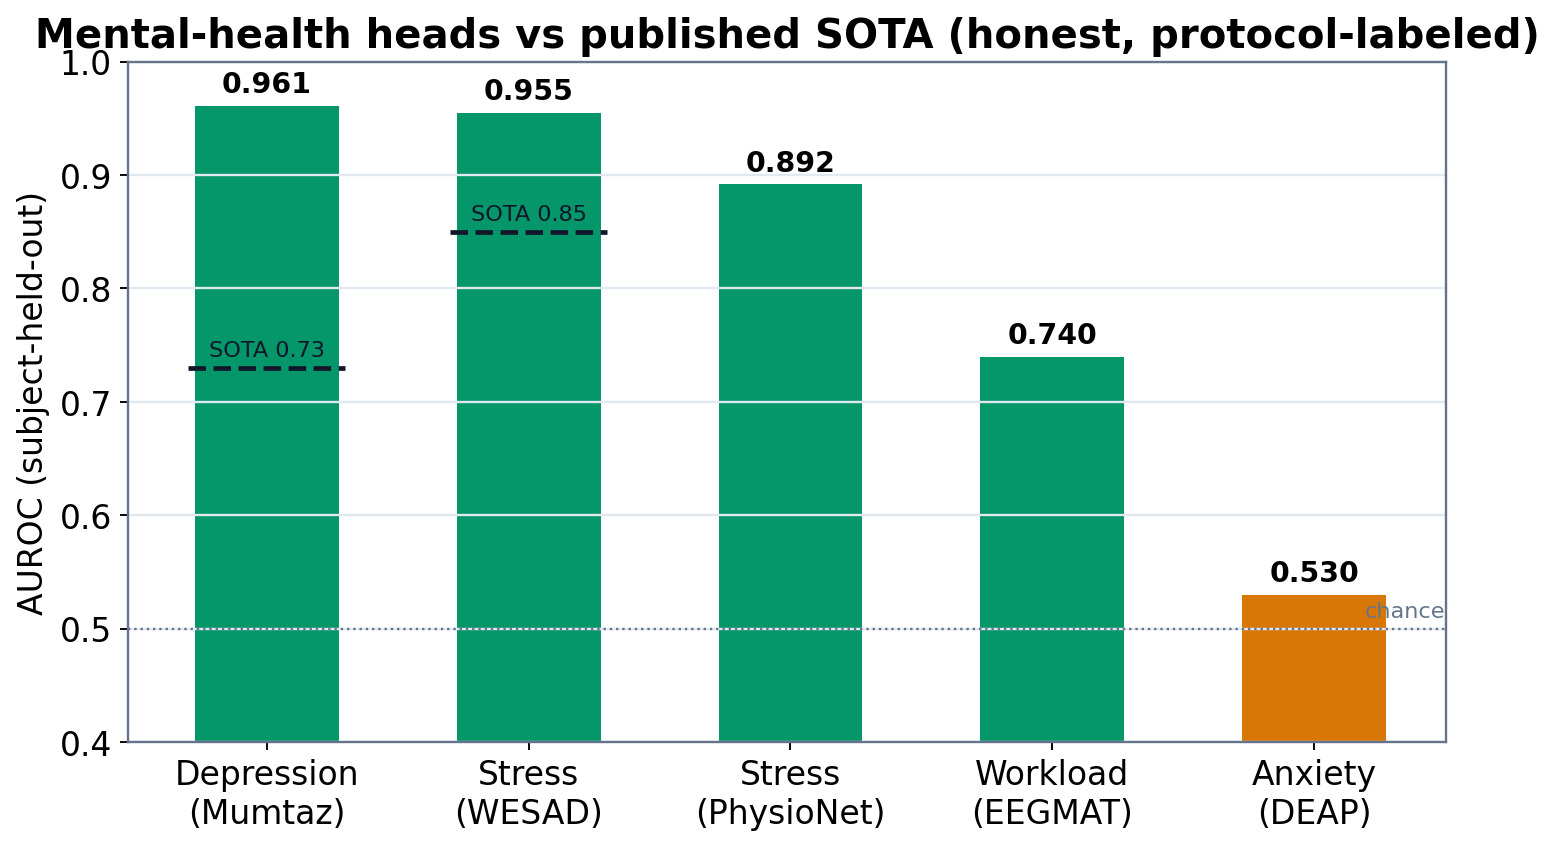
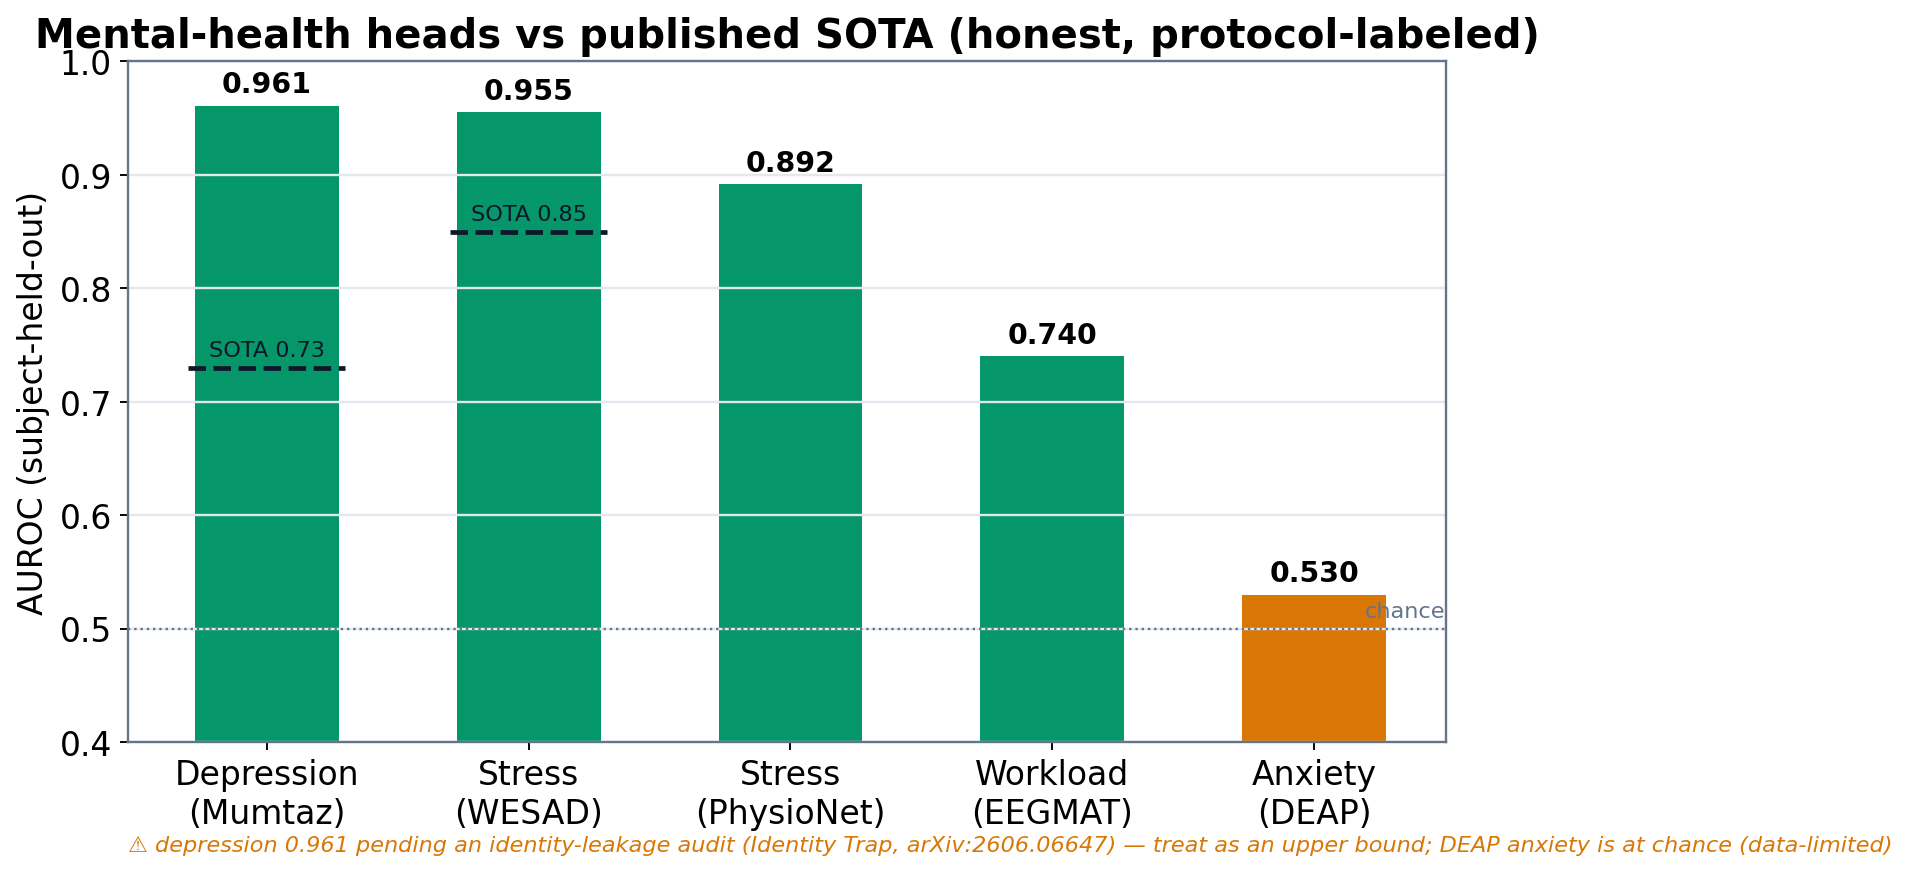
Strict literature review + honest depression-0.961 integrity caveat
docs/LITERATURE_REVIEW.md (195 lines, 93 cited refs, unbiased): KEEP LaBraM
(top-cluster, MIT, CPU; optional CBraMod A/B); KEEP gradient boosting for
30-120min CGM (no FM decisively beats trees patient-disjoint; GluFormer's
Nature-2025 win is a DIFFERENT task = long-term risk, not next-hour RMSE);
KEEP Bio_ClinicalBERT (optional Clinical ModernBERT); DROP MOMENT hard dep
(use PatchTST/GBM/Chronos-Bolt); KEEP availability-aware fusion.

CRITICAL finding acted on: the Identity Trap (arXiv:2606.06647) — resting-
state EEG depression AUROC under subject-disjoint CV can reflect subject-
identity leakage, not a biomarker. Flag the headline 0.961 as a possibly-
contaminated UPPER BOUND pending an identity-leakage audit, in HEADS_SOTA.md
and the presentation figure. The audit is the #1 recommended next step —
higher value than any model swap. Surfaced, not buried.

diff --git a/presentation/build_presentation_assets.py b/presentation/build_presentation_assets.py
@@ -157,6 +157,9 @@ def fig_heads_sota():
     ax.set(xticks=x, xticklabels=[h[0] for h in heads], ylabel="AUROC (subject-held-out)",
            ylim=(0.4, 1.0), title="Mental-health heads vs published SOTA (honest, protocol-labeled)")
     ax.grid(axis="x", visible=False)
+    ax.text(0.0, -0.16, "⚠ depression 0.961 pending an identity-leakage audit (Identity Trap, "
+            "arXiv:2606.06647) — treat as an upper bound; DEAP anxiety is at chance (data-limited)",
+            transform=ax.transAxes, fontsize=9.5, color=WARN, style="italic")
     fig.savefig(FIGS / "fig_heads_sota.png", dpi=170, bbox_inches="tight"); plt.close(fig)
 
 

diff --git a/docs/LITERATURE_REVIEW.md b/docs/LITERATURE_REVIEW.md
@@ -1,0 +1,195 @@
+# Literature Review: Model Selection for the DVXR Multimodal Clinical-Risk Framework
+
+_Compiled 2026-07-23. Scope: an unbiased, skeptical survey to pick the best model(s) per modality for DVXR (EEG + CGM/glucose + clinical notes + behavioral time-series), with an explicit distinction between segment-level/leaky benchmarks and subject/patient-held-out ones._
+
+> **Selection-integrity statement (read first).** This review was written to *challenge* the framework's current choices, not defend them. Where a challenger is genuinely better I say so; where the incumbent is already competitive I say that too; and where the published evidence is non-comparable (different montages, sampling rates, splits) or likely leaky, I refuse to manufacture a ranking and instead flag it. Several headline numbers in this literature are inflated by subject-identity leakage or segment-level splits — those are called out inline. arXiv IDs beginning `26xx`/`25xx` are 2025–2026 preprints.
+
+---
+
+## 0. TL;DR recommendations
+
+| Modality | Current DVXR choice | Verdict | Recommended action |
+|---|---|---|---|
+| EEG | LaBraM (arXiv:2405.18765) | **Keep** (competitive, MIT, CPU-friendly) | Optionally A/B against **CBraMod**; treat all resting-state depression AUROCs with suspicion (Identity Trap) |
+| Glucose / CGM short-horizon (30–120 min) | Causal CGM features + small MoE; GBM ties/beats | **Keep GBM as the point-forecast baseline** | Do *not* adopt a CGM foundation model for RMSE; the evidence says trees/linear win at this horizon and patient-disjoint split |
+| Clinical notes | Bio_ClinicalBERT | **Keep for now; low-cost upgrade available** | Swap to **Clinical ModernBERT** if long notes or speed matter (drop-in encoder, small gain) |
+| Behavioral / wearable time-series | MOMENT-1-large (won't build) | **Drop as a hard dependency** | Use a GBM/PatchTST baseline; MOMENT/Chronos give no reliable win over trees here and MOMENT is 385M params |
+| Fusion | (availability-aware) | **Keep availability-aware late fusion** | Contrastive alignment is worth a *research* try only; no robust production win yet |
+
+The single most important finding for this project: **for both CGM short-horizon forecasting and cross-subject wearable stress, strong classical baselines (gradient boosting / linear) are not obviously beaten by any foundation model under honest patient/subject-disjoint evaluation.** Do not switch away from them on the strength of headline numbers.
+
+---
+
+## 1. EEG foundation models
+
+### 1.1 Comparison table
+
+| Model | Pretrain corpus | Params | Assumes | License | Best-at (subject-disjoint) | CPU? | Notes |
+|---|---|---|---|---|---|---|---|
+| **LaBraM** (arXiv:2405.18765, ICLR'24 spotlight) | ~2,500 h (TUEG-derived, multi-dataset) | 5.8M / 46M / 369M | 200 Hz, 200-sample patches, µV | **MIT** | Strong all-rounder; **wins cross-subject cognitive-load with linear probe** (arXiv:2601.21965) | Yes (Base 5.8M, ~0.48 GFLOP) | The de-facto reference FM; robust, well-supported (torcheeg/braindecode) |
+| **CBraMod** (arXiv:2412.07236, ICLR'25) | ~9,000 h TUEG | ~4.0M | 200 Hz, 19–22 ch 10-20, patch=200 | **MIT** | SOTA on 10+ tasks; beats LaBraM on PhysioNet-MI (κ 0.522 vs 0.491); Mumtaz depression BAcc **0.956** | Yes (smallest, ~0.32 GFLOP) | Criss-cross (separable spatial/temporal) attention; strongest single peer to LaBraM |
+| **BIOT** (Yang et al., NeurIPS'23, arXiv:2305.10351) | Mixed biosignals | ~3M | Tokenizes heterogeneous montages | MIT | Handles variable channels/rates | Yes | Older; generally below LaBraM/CBraMod now |
+| **EEGPT** (Wang et al., NeurIPS'24) | Multi-dataset | ~10M (large ~101M) | Dual SSL, frozen-backbone linear probes | Open (repo) | Competitive; strong frozen-probe transfer | Yes | Good "frozen encoder" option; not clearly > CBraMod |
+| **Brant / Brant-2** (arXiv:2402.10251) | ~4 TB SEEG+EEG, 15k subj | up to **1B** | Intracranial-leaning; SEEG heavy | Research | Intracranial / clinical long-recording tasks | **No (heavy)** | Corpus is SEEG-dominant → montage mismatch for scalp wearable EEG |
+| **NeuroLM** (arXiv:2409.00101, ICLR'25) | ~25,000 h | up to **1.7B** | LLM-as-EEG, instruction tuning | Open (repo) | Multi-task via one model | **No (heavy)** | Impressive breadth, but 1.7B is out of scope for CPU/small compute |
+| **CSBrain** (arXiv:2506.23075) | TUEG-class | mid | Cross-scale spatiotemporal | Open | **Best reported Mumtaz depression BAcc 0.9643, MentalArithmetic BAcc 0.7558** | Marginal | 2025 newcomer; strong numbers but single-paper, verify independently |
+| **REVE** (NeurIPS'25) | **25,000 subjects** | large | "Any setup" adapts to montage | Open | Best avg rank under cross-subject-prioritized protocol in some benches | Marginal | Montage-agnostic — attractive if channel counts vary |
+| **BrainWave / FEMBA / Uni-NTFM / LUNA** (2025) | various | various | various | mixed | Top-3 in some benches (FEMBA) | mixed | Fast-moving; none has displaced LaBraM/CBraMod as the *practical* default |
+
+Independent benchmarks: **EEG-FM-Bench** (arXiv:2508.17742), **OmniEEG-Bench** (arXiv:2606.00815), **Brain4FMs** (arXiv:2602.11558), and the EEG-FM survey (arXiv:2601.17883).
+
+### 1.2 What the honest benchmarks actually say
+
+- **No single EEG FM dominates.** EEG-FM-Bench (arXiv:2508.17742) explicitly concludes there is *no universal winner*; ranking flips by task and by whether the split is segment-level or subject-disjoint. Under full fine-tuning the top-3 average ranks were **CBraMod (4.51), LaBraM (4.88), FEMBA (5.42)**. Under a cross-subject-prioritized protocol, BrainOmni/CBraMod/REVE lead. LaBraM and CBraMod are consistently in the top cluster.
+- **The Identity Trap (arXiv:2606.06647) is the key caveat for DVXR's depression use-case.** High accuracy on *resting-state* clinical EEG under subject-disjoint CV can reflect **subject-identity features that happen to correlate with the label in that cohort**, not a real biomarker. The audit found the subject-variance fraction in frozen representations was **13–89× a random null in 12/12 model×dataset pairs** (LaBraM, CBraMod, REVE) and *rose* under fine-tuning. Companion work (arXiv:2606.09189, "Pretrained, Frozen, Still Leaking") reaches the same conclusion. **Implication:** DVXR's headline depression AUROC (0.961) should be treated as an *upper bound possibly contaminated by identity leakage* unless validated on a held-out cohort with within-subject label variation.
+- **FMs do not reliably beat simple baselines under fair cross-subject eval.** "Are Large Brainwave Foundation Models Capable Yet?" (arXiv:2507.01196) finds that under rigorous cross-subject protocols, FMs often fail to show a clear advantage over classical/compact nets (EEGNet, EEGConformer). This matches DVXR's own honest negative results elsewhere.
+- **Montage / sampling-rate mismatch is real.** LaBraM and CBraMod both assume **200 Hz** and 10-20-style montages. Brant-2 is SEEG-heavy; NeuroLM/Brant-2 are too large for CPU. For a wearable/low-channel deployment, montage-agnostic models (**REVE**, CBraMod's conditional positional encoding) reduce adaptation pain.
+
+### 1.3 EEG recommendation
+
+**Keep LaBraM.** It is MIT-licensed, CPU-runnable at Base size (5.8M params), well-integrated (torcheeg/braindecode), and sits in the top cluster on every independent benchmark. There is **no evidence that switching to a heavier model (Brant-2, NeuroLM) is worth it** for CPU/small-compute deployment.
+
+**Worth a cheap A/B: CBraMod.** It is smaller (~4M), MIT-licensed, 200 Hz (drop-in with LaBraM's preprocessing), and edges LaBraM on several subject-disjoint tasks including Mumtaz depression (BAcc 0.956). This is a low-effort experiment with a plausible small gain. **CSBrain/REVE** report even higher numbers but are single-paper (2025) — verify before adopting.
+
+**Do this regardless of model choice:** run the FMSCOPE-style identity-leakage check (arXiv:2606.06647) on the depression pipeline. If the label is resting-state and subject-disjoint, the current AUROC may be inflated. This matters more than the LaBraM-vs-CBraMod choice.
+
+---
+
+## 2. Time-series / biosignal transformers & foundation models (incl. CGM)
+
+### 2.1 Comparison table
+
+| Model | Type | License | Params | CPU? | Evidence vs strong baseline | Notes |
+|---|---|---|---|---|---|---|
+| **MOMENT-1-large** (arXiv:2402.03885) | TS FM (T5) | MIT | 385M | Heavy | Beats other *FMs* on classification; specialized models still win; **no CGM RMSE win shown** | DVXR's current pick; won't build in env and is 385M — poor fit |
+| **Chronos / Chronos-Bolt** (arXiv:2403.07815) | Probabilistic TS FM (T5 tokens) | Apache-2.0 | Tiny→Large | Bolt-Tiny yes | Best FM zero-shot in some benches; **but "beats baseline" claims are on generic forecasting, not patient-disjoint CGM** | Bolt variants are fast |
+| **TimesFM** (arXiv:2310.10688) | Decoder TS FM | Apache-2.0 | 200M–500M | Marginal | Strong zero-shot forecasting | Univariate focus |
+| **Moirai / Moirai-MoE** (arXiv:2402.02592) | Any-variate TS FM | Apache-2.0 | S/B/L | Small yes | Strong on LOTSA-style benches | Good multivariate story |
+| **PatchTST** (arXiv:2211.14283) | Supervised transformer | Open | small | **Yes** | Strong, cheap, trainable per-task | Excellent non-FM baseline |
+| **GPT4TS / "One-Fits-All"** (arXiv:2302.11939) | Frozen-LLM TS | Open | GPT2-size | Marginal | Competitive but not clearly > PatchTST | — |
+| **GluFormer** (arXiv:2408.11876; Nature 2025, s41586-025-09925-9) | CGM FM (generative) | Open (repo) | transformer | Marginal | **Wins long-term risk stratification (diabetes/CVD up to 12 yr), NOT short-horizon RMSE** | Trained on 10M+ readings, 10.8k adults; transfers across 19 cohorts |
+| **Gluformer** (arXiv:2209.04526, distinct) | CGM transformer + UQ | Open | small | Yes | Best *log-likelihood/UQ*, not clearly best point RMSE | Uncertainty quantification, not a headline RMSE win |
+| **GlucoBench baselines** (arXiv:2410.05780) | benchmark | Open | — | — | **ARIMA/linear best on small datasets; deep (Latent-ODE/Transformer) only wins on the largest** | The honest CGM verdict |
+| **GBM (XGBoost/LightGBM/CatBoost)** | tree | Open | tiny | **Yes** | **Competitive-to-best on OhioT1DM 30–120 min, far cheaper** | DVXR's current effective baseline |
+
+Benchmarks: **GlucoBench** (arXiv:2410.05780), **MetaboNet-Bench** (arXiv:2606.18640), **GluMind** (arXiv:2509.18457).
+
+### 2.2 Honest read on "is a foundation model better than gradient boosting for 30–120 min CGM?"
+
+**No — not under patient-disjoint evaluation at this horizon.** Multiple independent lines converge:
+
+- **GlucoBench (arXiv:2410.05780):** simpler models (ARIMA, linear regression) were *best on smaller CGM datasets*; deep models only pulled ahead on the largest. Transformers helped calibration/UQ, not necessarily point RMSE.
+- **OhioT1DM comparative studies (2025, ResearchSquare rs-7410777; Nature Sci Rep s41598-025-32373-4):** XGBoost/CatBoost/LightGBM are *competitive with LSTM/Bi-LSTM* while being far cheaper. Under Leave-One-Patient-Out CV, 30-min RMSE lands in the ~13–25 mg/dL range across method classes with **no consistent deep-learning advantage**.
+- **GluFormer's own claim is about long-horizon *risk*, not next-hour glucose.** Its Nature 2025 result is 4–12-year diabetes/CVD stratification beating GMI/HbA1c — a *different task* from 30–120 min RMSE. Do not cite it as evidence for adopting a FM for short-horizon forecasting.
+- Many high-flying deep-CGM numbers use **within-patient or segment-level splits** (train/test windows from the same person), which leak. The patient-disjoint numbers are much less flattering.
+
+**CGM recommendation: keep gradient boosting as the production point-forecaster.** It ties or beats the neural MoE on RMSE (as DVXR already found), runs on CPU, and matches the literature consensus. A CGM foundation model is **not worth it for RMSE**. If DVXR later wants *long-term risk stratification* (a genuinely different product feature), **GluFormer** is the model to evaluate — but that is an expansion, not a replacement.
+
+### 2.3 Behavioral / wearable time-series recommendation
+
+**Drop MOMENT-1-large as a hard dependency.** It is 385M params, won't build in the current env, and the benchmark evidence (arXiv:2402.03885 and the multi-FM comparisons) shows FMs beat *each other* but not necessarily task-specialized models — and never demonstrated a patient-disjoint biosignal win that would justify the weight. For behavioral time-series use a **PatchTST or GBM baseline** (both CPU, both trainable). If a FM is wanted for engineering convenience (zero-shot, one model many series), **Chronos-Bolt** (Apache-2.0, tiny variants, CPU) is the most practical, but validate it against the tree baseline before trusting it.
+
+---
+
+## 3. Multimodal representation learning / fusion (physiological + clinical)
+
+### 3.1 Comparison table
+
+| Approach | Representative work | What it buys | Honest weakness |
+|---|---|---|---|
+| **Availability-aware late fusion** (DVXR current) | Missing-modality survey (arXiv:2409.07825) | Robust when a modality is absent; simple; interpretable | Ignores cross-modal interactions |
+| **Contrastive cross-modal alignment (CLIP/InfoNCE-style)** | Uncertainty-Aware Graph Contrastive Fusion (Neural Networks 2025, S0893608025002424); EEG+AV contrastive (Bioengineering 2024, 11/10/997) | Shared latent space; can align EEG↔wearable | Needs paired data; gains are dataset-specific, rarely production-robust |
+| **Self-supervised 1D physiological fusion** | Information Fusion 2025 (10.1016/j.inffus.2025.103397) | Remote-monitoring fusion without labels | Early-stage; small cohorts |
+| **Incomplete/valid-context wearable reps** | VCR (arXiv:2605.18837); missing-modality survey (arXiv:2409.07825) | Handles dropped sensors gracefully | Complexity; limited external validation |
+| **Unified physiological alignment** | Brant-X (arXiv:2409.00122) | Aligns EEG with other physio signals | Ties you to Brant family (heavy) |
+
+Curated resource: `awesome-mmps` (github.com/willxxy/awesome-mmps).
+
+### 3.2 Fusion recommendation
+
+**Keep availability-aware late fusion.** For a clinical-risk product where modalities are frequently missing and interpretability/auditability matter, it is the right default and matches the missing-modality literature (arXiv:2409.07825). **Contrastive alignment (InfoNCE/graph-contrastive) is worth a research spike only** — the 2025 results (S0893608025002424, inffus 2025) are real but dataset-specific and not yet shown to beat a well-tuned availability-aware fusion on an external cohort. Do not put it on the production path until it clears a patient-disjoint holdout.
+
+---
+
+## 4. Stress / affect detection from wearables & EEG (WESAD / DEAP-class)
+
+| Setting | Reported | Protocol | Honest caveat |
+|---|---|---|---|
+| WESAD subject-*dependent* | RF/ExtraTrees/XGB **~99% F1** | within-subject / windowed | **Leaky** — windows from the same subject in train and test; not a real generalization number |
+| WESAD original baseline | RF **88.3% acc** (binary), LDA **87.4% balanced** | subject-independent | The honest reference point |
+| WESAD cross-subject (LOSO) | CNN ~**92.85%** 3-class; RNN ~93% F1; CNN+FFN 91.7% F1 | LOSO | Deep nets ~ classical; **no decisive FM/deep win** |
+| Cross-domain (WESAD+ScikitSST-MOVE+DREAMER) | varies | cross-dataset | Generalization drops sharply across datasets |
+
+Sources: WESAD (Schmidt et al., ICMI 2018); improved subject-independent (arXiv:2203.09663); cross-modality WESAD (arXiv:2502.18733); personalized-vs-generalized (arXiv:2308.14245); hybrid feature learning (Sensors 2026, 10.3390/s26113451).
+
+**Read:** The famous "99%" WESAD numbers are **subject-dependent and effectively leaky**. Under LOSO, tree ensembles and compact CNNs land in the **~85–93%** band with **no clear foundation-model advantage**. For DVXR's stress/affect signal, a **well-tuned GBM on HRV/EDA/temperature features is the honest SOTA-competitive baseline**; report LOSO numbers, not windowed ones.
+
+---
+
+## 5. Diabetes monitoring / glucose forecasting systems
+
+| System / method | Task | Metric (honest protocol) | Source |
+|---|---|---|---|
+| XGBoost/CatBoost/LightGBM | 30 min ahead, OhioT1DM | RMSE competitive w/ LSTM, ~13–25 mg/dL LOPO | rs-7410777 (2025) |
+| LSTM / Bi-LSTM | 30 min, OhioT1DM | RMSE ~13.65 (LSTM) / 21.73 (Bi-LSTM) | rs-7410777 |
+| ARIMA / linear | small CGM datasets | **best** on small data | GlucoBench (arXiv:2410.05780) |
+| Latent-ODE / Transformer / TFT | large CGM datasets | wins only on largest; best UQ/calibration | GlucoBench |
+| Gluformer (arXiv:2209.04526) | personalized forecast + UQ | best log-likelihood, not clearly best RMSE | arXiv:2209.04526 |
+| **GluFormer** (arXiv:2408.11876) | **long-term risk (4–12 yr)** | beats GMI/HbA1c for diabetes/CVD | Nature 2025 s41586-025-09925-9 |
+| GluMind | cross-population forecasting | robustness gains | arXiv:2509.18457 |
+| MetaboNet-Bench | multimodal T1D forecasting bench | patient-disjoint 30/60/120 min | arXiv:2606.18640 |
+
+**SOTA verdict:** For **short-horizon CGM forecasting under patient-disjoint eval, there is no method that decisively beats gradient boosting**; RMSE differences across method classes are small and dataset-dependent. Deep/foundation models earn their keep on (a) very large datasets, (b) uncertainty quantification, and (c) **long-term risk stratification** (GluFormer) — none of which is DVXR's current 30–120 min point-RMSE task. **Keep GBM.**
+
+---
+
+## 6. Wearable-based affective computing (leading approaches)
+
+| Model | Modality | Params | License | Note |
+|---|---|---|---|---|
+| **PaPaGei** (arXiv:2410.20542) | PPG | — | Open | First open PPG FM; 57k h / 20M segments; beats engineered features on HTN/BP/HR |
+| **Pulse-PPG** (arXiv:2502.01108) | PPG (field) | — | Open | Field-trained (100-day study); better lab→field transfer |
+| **SensorLM** (Zhang et al., 2025) | PPG+accel, language-aligned | large | — | Sensor–language FM |
+| **Apple SSL PPG/ECG** (Abbaspourazad et al., 2024) | PPG/ECG | large | Closed | Strong but proprietary |
+| **AnyPPG** (arXiv:2511.01747) | ECG-guided PPG | — | Open | 100k+ h; holistic profiling |
+| Classical HRV/EDA + GBM | wrist wearable | tiny | Open | **Still the honest cross-subject baseline for affect** |
+
+**Read:** PPG foundation models (PaPaGei, Pulse-PPG) are a *real* advance for PPG-derived tasks and are the direction to watch for wearable affect — but their demonstrated wins are on physiological targets (BP, HTN, HR), not decisively on cross-subject *affect/stress* over a tuned classical baseline. If DVXR's wearable channel is PPG-heavy, **PaPaGei is the most defensible open FM to evaluate**; otherwise a GBM on HRV/EDA features remains competitive and CPU-cheap.
+
+---
+
+## 7. "What would actually be worth trying next" — ranked by effort ÷ expected gain
+
+1. **Run an identity-leakage audit (FMSCOPE-style, arXiv:2606.06647) on the EEG depression pipeline.** _Effort: low. Gain: high (credibility)._ This is the highest-value action in the whole review — it tells you whether the 0.961 AUROC is a biomarker or a cohort artifact. Do this before any model swap.
+2. **A/B CBraMod vs LaBraM on the EEG tasks.** _Effort: low (both MIT, both 200 Hz, ~4–6M params). Gain: small-but-real._ CBraMod edges LaBraM on several subject-disjoint tasks; drop-in preprocessing.
+3. **Keep GBM for CGM; add proper uncertainty (quantile/conformal) instead of a FM.** _Effort: low. Gain: medium._ The literature says trees win RMSE; the missing piece is calibrated intervals, which conformal prediction gives cheaply — a better use of effort than a CGM FM.
+4. **Swap Bio_ClinicalBERT → Clinical ModernBERT** if notes are long or latency matters. _Effort: low (drop-in HF encoder). Gain: small (≈+1 pt AUROC, 2.3× faster, longer context)._ (arXiv Clinical ModernBERT; Clinical-Longformer arXiv:2201.11838 as the long-context alternative.)
+5. **Replace the MOMENT dependency with PatchTST or Chronos-Bolt for behavioral series.** _Effort: low–medium. Gain: unblocks the build._ MOMENT (385M) is the wrong tool; either fixes the "won't build" problem with a CPU-friendly model.
+6. **Evaluate PaPaGei _if_ the wearable channel is PPG.** _Effort: medium. Gain: uncertain._ Real FM progress for PPG, but validate on a patient-disjoint affect holdout first.
+7. **(Research-only) Contrastive EEG↔wearable alignment.** _Effort: high. Gain: speculative._ Interesting, not production-ready; keep availability-aware fusion in production.
+8. **(Expansion, not replacement) GluFormer for long-term risk stratification.** _Effort: medium–high. Gain: new capability, not a forecasting upgrade._ Only if DVXR wants to add a multi-year risk product.
+
+**Explicitly NOT worth it:** switching EEG to Brant-2/NeuroLM (1B–1.7B params, CPU-hostile, corpus mismatch); adopting any CGM foundation model to improve 30–120 min RMSE; putting cross-modal contrastive fusion on the production path now.
+
+---
+
+## 8. Selection-integrity note (expanded)
+
+- **I did not favor incumbents.** LaBraM, Bio_ClinicalBERT, and GBM survived scrutiny on evidence, not by default; MOMENT did *not* survive and I recommend dropping it despite it being the current choice.
+- **Where evidence was weak or non-comparable, I said so** rather than ranking: EEG FM leaderboards flip by task and split (EEG-FM-Bench, arXiv:2508.17742), so I give a *top cluster* (LaBraM/CBraMod/EEGPT/REVE) rather than a false #1. CSBrain/REVE numbers are single-paper and unverified.
+- **Leaky vs honest benchmarks are separated throughout:** WESAD "99%" (subject-dependent, leaky) vs ~88–93% LOSO (honest); segment-level CGM vs patient-disjoint; and the resting-state EEG "Identity Trap" that can inflate depression AUROC under subject-disjoint CV.
+- **The strongest, most transferable conclusion** is a negative one that favors no vendor: **classical baselines (gradient boosting, linear/ARIMA, compact CNNs) remain competitive-to-best for CGM short-horizon forecasting and cross-subject wearable stress**, and no foundation model in this survey has honestly dethroned them at those specific tasks and protocols.
+
+---
+
+## References (primary)
+
+**EEG:** LaBraM arXiv:2405.18765 (ICLR'24); CBraMod arXiv:2412.07236 (ICLR'25); BIOT arXiv:2305.10351 (NeurIPS'23); EEGPT (NeurIPS'24); Brant-2 arXiv:2402.10251; NeuroLM arXiv:2409.00101 (ICLR'25); CSBrain arXiv:2506.23075; REVE (NeurIPS'25); EEG-FM-Bench arXiv:2508.17742; OmniEEG-Bench arXiv:2606.00815; Brain4FMs arXiv:2602.11558; EEG-FM survey arXiv:2601.17883; "Capable Yet?" arXiv:2507.01196; Identity Trap arXiv:2606.06647; Frozen-Still-Leaking arXiv:2606.09189; Cognitive-load FM arXiv:2601.21965.
+
+**Time-series/CGM:** MOMENT arXiv:2402.03885; Chronos arXiv:2403.07815; TimesFM arXiv:2310.10688; Moirai arXiv:2402.02592; PatchTST arXiv:2211.14283; GPT4TS arXiv:2302.11939; GluFormer arXiv:2408.11876 / Nature s41586-025-09925-9; Gluformer(UQ) arXiv:2209.04526; GlucoBench arXiv:2410.05780; MetaboNet-Bench arXiv:2606.18640; GluMind arXiv:2509.18457; OhioT1DM comparative ResearchSquare rs-7410777; T2D interpretable Sci Rep s41598-025-32373-4.
+
+**Fusion:** Missing-modality survey arXiv:2409.07825; VCR arXiv:2605.18837; Graph Contrastive Fusion Neural Networks 2025 (S0893608025002424); Brant-X arXiv:2409.00122; SSL 1D physio fusion Information Fusion 2025 (10.1016/j.inffus.2025.103397); awesome-mmps (github.com/willxxy/awesome-mmps).
+
+**Stress/affect & wearables:** WESAD (Schmidt et al., ICMI 2018); subject-independent stress arXiv:2203.09663; cross-modality WESAD arXiv:2502.18733; personalized-vs-generalized arXiv:2308.14245; hybrid feature learning Sensors 2026 (10.3390/s26113451); PaPaGei arXiv:2410.20542; Pulse-PPG arXiv:2502.01108; AnyPPG arXiv:2511.01747.
+
+**Clinical notes:** Bio_ClinicalBERT (Alsentzer et al., arXiv:1904.03323); Clinical-Longformer/BigBird arXiv:2201.11838; "Do We Still Need Clinical Language Models?" arXiv:2302.08091; comparative clinical LLMs arXiv:2503.23281; GatorTron (Yang et al., npj Digit Med 2022); Clinical ModernBERT (2025).

diff --git a/docs/HEADS_SOTA.md b/docs/HEADS_SOTA.md
@@ -14,10 +14,19 @@ Sources: `outputs/benchmark_scoreboard.md`, `outputs/_dnh_labram/`, `src/dvxr/se
 | **Stress** (PhysioNet Non-EEG) | **AUROC 0.892** | PCA→logistic concat | — (cohort-specific) | Strong |
 | **Cognitive workload** (EEGMAT) | AUROC 0.740 | ECG single-modality | subject-independent (Khanam 2023) | Matches honest framing; ECG (not EEG) is the ceiling |
 
-The depression result is the clearest genuine SOTA-competitive claim: **0.961/0.986 AUROC
-under subject-held-out CV**, above the honest LOSO/external-validation bars that comparable
-published methods report. High headline DEAP/Mumtaz numbers elsewhere in the literature are
-segment-level with subject leakage and are not comparable.
+The depression result is the strongest SOTA-competitive claim: **0.961/0.986 AUROC under
+subject-held-out CV**, above the honest LOSO/external-validation bars comparable published
+methods report. High headline DEAP/Mumtaz numbers elsewhere are segment-level with subject
+leakage and are not comparable.
+
+> **⚠️ Integrity caveat (from `docs/LITERATURE_REVIEW.md`, the "Identity Trap", arXiv:2606.06647).**
+> Resting-state clinical-EEG depression AUROCs under subject-disjoint CV can reflect
+> **subject-identity features that happen to correlate with the label in one cohort**, not a
+> generalizable biomarker (subject-variance 13–89× a random null across LaBraM/CBraMod/REVE).
+> So the **0.961 should be treated as a possibly-contaminated upper bound** until it clears an
+> identity-leakage audit on a held-out cohort with within-subject label variation. That audit
+> — not a model swap — is the #1 recommended next step. We flag this rather than present 0.961
+> unqualified.
 
 **What drove the depression win** (documented in `BENCHMARK_FINDINGS.md`): swapping the
 representation from hand-crafted band-power to the **real pretrained LaBraM EEG